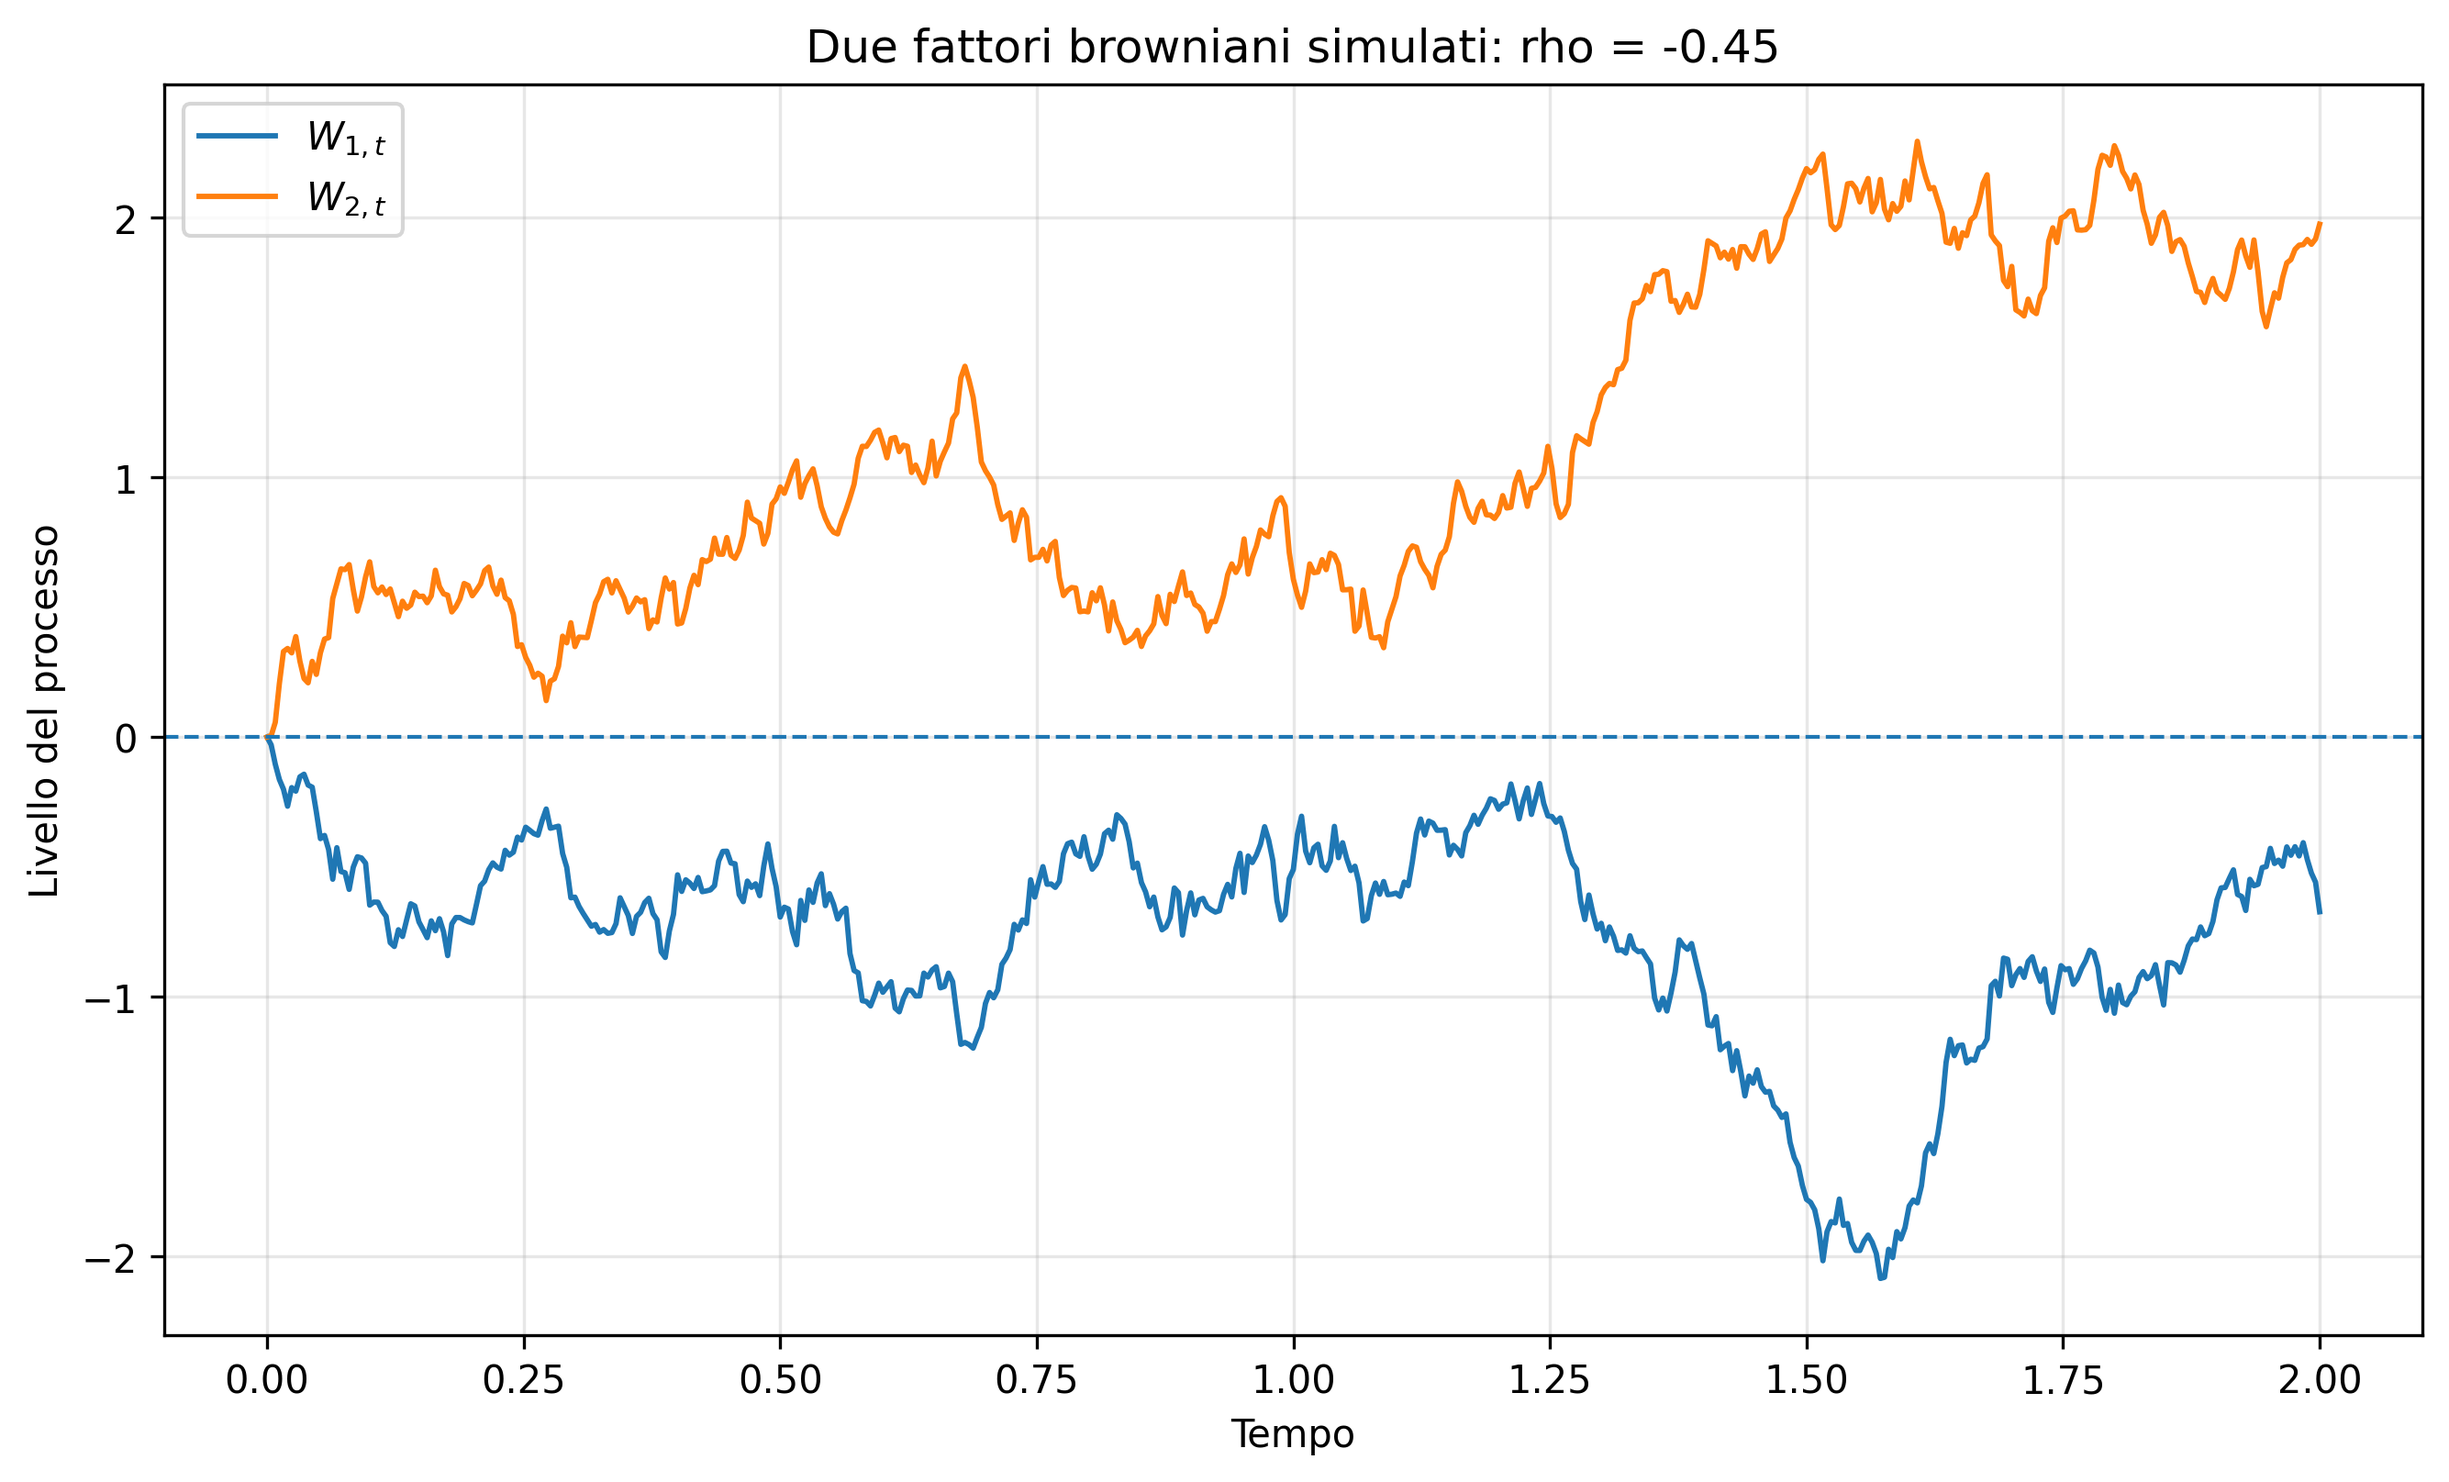
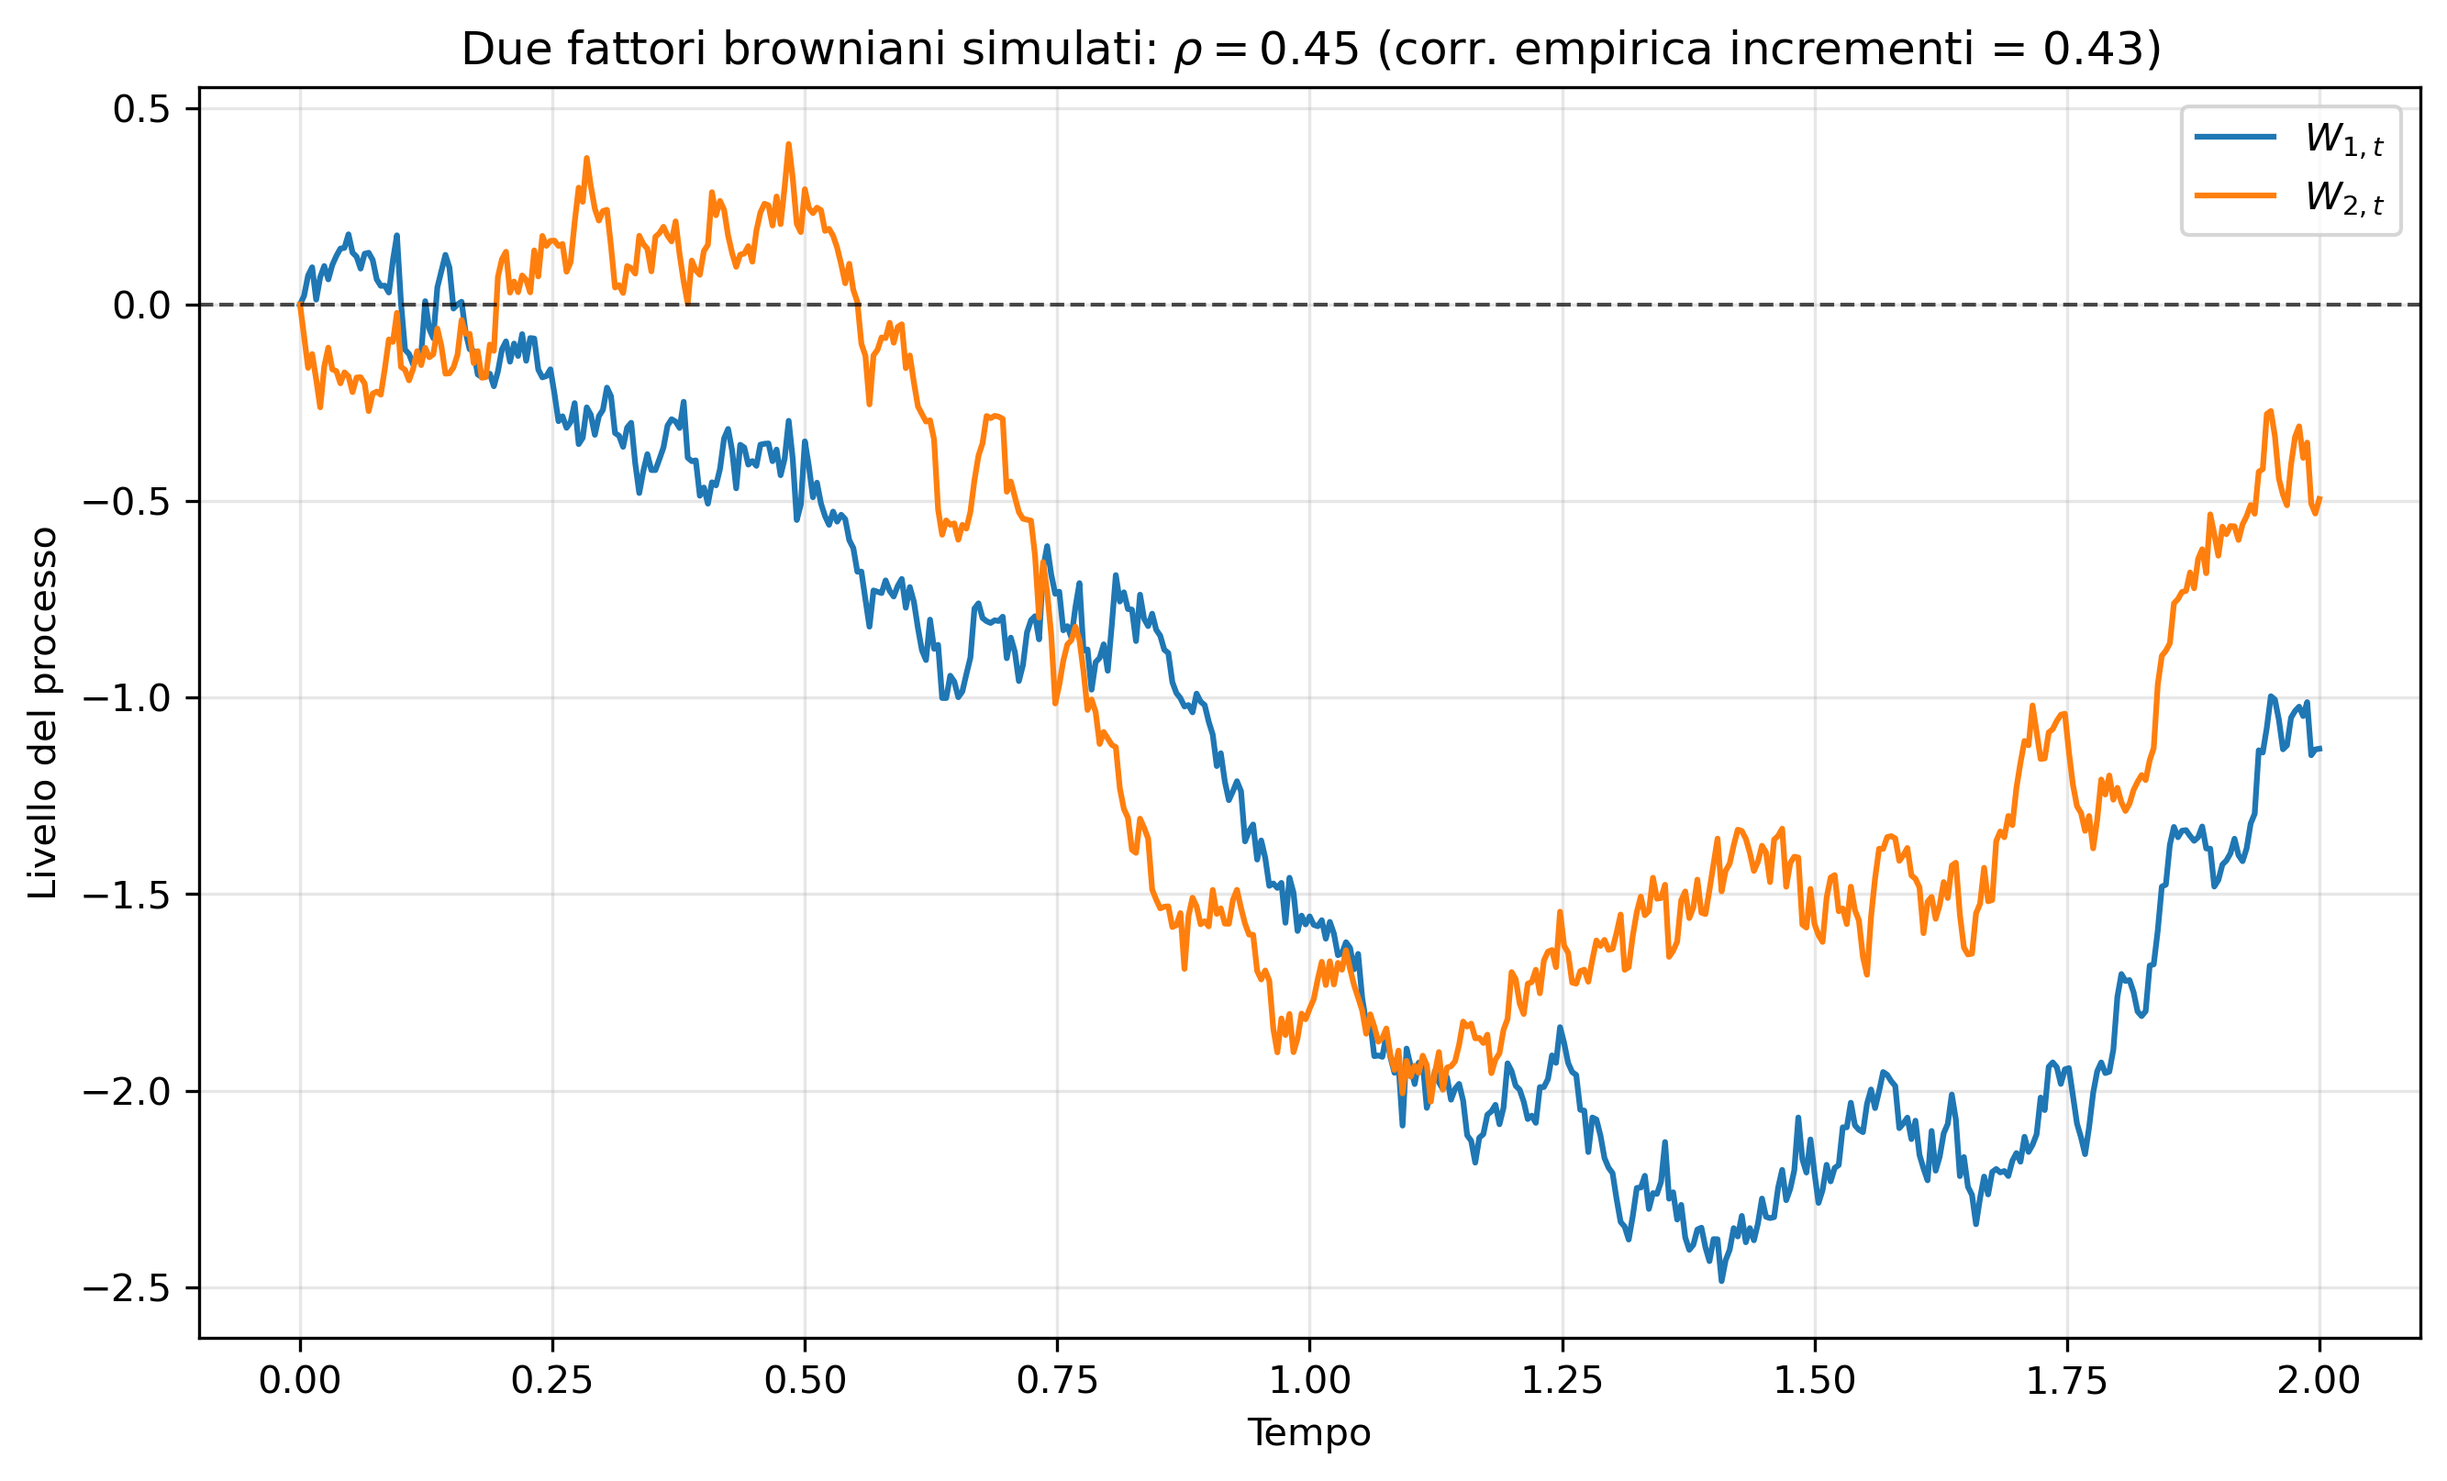
Lez06_Figure traiettorie Browniane correl 0 e 0.45

diff --git a/04_Codice/Lez06/Cap06_correlazione_traiettorie.py b/04_Codice/Lez06/Cap06_correlazione_traiettorie.py
@@ -1,0 +1,158 @@
+import os
+
+import matplotlib.pyplot as plt
+import numpy as np
+
+
+# ============================================================
+# PARAMETRI DA MODIFICARE
+# ============================================================
+
+CORRELATION_PARAMETERS = {
+    "T": 2.0,
+    "n_steps": 500,
+    "seed_1": 1,
+    "seed_2": 127,
+    "rho_values": [0.0, 0.45],
+}
+
+
+OUTPUT_FILES = {
+    0.0: "./graphics/Cap06_correlazione_traiettorie_rho0.png",
+    0.45: "./graphics/Cap06_correlazione_traiettorie_rho_m045.png",
+}
+
+
+# ============================================================
+# SIMULAZIONE DI DUE BROWNIANI CORRELATI
+# ============================================================
+
+
+def generate_base_shocks(
+    n_steps: int,
+    seed_1: int,
+    seed_2: int,
+) -> tuple[np.ndarray, np.ndarray]:
+    """Generate two independent standard-normal shock sequences."""
+    rng_1 = np.random.default_rng(seed_1)
+    rng_2 = np.random.default_rng(seed_2)
+    z1 = rng_1.standard_normal(n_steps)
+    z2 = rng_2.standard_normal(n_steps)
+    return z1, z2
+
+
+def correlate_shocks(
+    z1: np.ndarray,
+    z2: np.ndarray,
+    rho: float,
+) -> tuple[np.ndarray, np.ndarray]:
+    """
+    Build shocks with target instantaneous correlation rho.
+
+    In the two-dimensional case:
+
+        eps_1 = z_1
+        eps_2 = rho z_1 + sqrt(1-rho^2) z_2
+    """
+    if not -1.0 <= rho <= 1.0:
+        raise ValueError("rho must be between -1 and 1.")
+
+    eps1 = z1
+    eps2 = rho * z1 + np.sqrt(1.0 - rho**2) * z2
+    return eps1, eps2
+
+
+def simulate_correlated_brownian_paths(
+    T: float,
+    n_steps: int,
+    seed_1: int,
+    seed_2: int,
+    rho: float,
+) -> tuple[np.ndarray, np.ndarray, np.ndarray, float]:
+    """Simulate two Brownian paths driven by correlated increments."""
+    z1, z2 = generate_base_shocks(
+        n_steps=n_steps,
+        seed_1=seed_1,
+        seed_2=seed_2,
+    )
+    eps1, eps2 = correlate_shocks(z1=z1, z2=z2, rho=rho)
+
+    dt = T / n_steps
+    sqrt_dt = np.sqrt(dt)
+
+    t_grid = np.linspace(0.0, T, n_steps + 1)
+    w1 = np.concatenate(([0.0], np.cumsum(sqrt_dt * eps1)))
+    w2 = np.concatenate(([0.0], np.cumsum(sqrt_dt * eps2)))
+
+    empirical_corr = float(np.corrcoef(eps1, eps2)[0, 1])
+    return t_grid, w1, w2, empirical_corr
+
+
+# ============================================================
+# COSTRUZIONE E SALVATAGGIO DEL GRAFICO
+# ============================================================
+
+
+def plot_correlated_paths(
+    output_path: str,
+    T: float,
+    n_steps: int,
+    seed_1: int,
+    seed_2: int,
+    rho: float,
+) -> float:
+    """Build and save the figure for one target correlation."""
+    t_grid, w1, w2, empirical_corr = simulate_correlated_brownian_paths(
+        T=T,
+        n_steps=n_steps,
+        seed_1=seed_1,
+        seed_2=seed_2,
+        rho=rho,
+    )
+
+    fig, ax = plt.subplots(figsize=(9, 5.5))
+
+    ax.plot(t_grid, w1, linewidth=1.5, label=r"$W_{1,t}$")
+    ax.plot(t_grid, w2, linewidth=1.5, label=r"$W_{2,t}$")
+    ax.axhline(0.0, color="black", linestyle="--", linewidth=1.0, alpha=0.7)
+
+    ax.set_xlabel("Tempo")
+    ax.set_ylabel("Livello del processo")
+    ax.set_title(
+        rf"Due fattori browniani simulati: $\rho={rho:.2f}$ "
+        rf"(corr. empirica incrementi = {empirical_corr:.2f})"
+    )
+    ax.legend()
+    ax.grid(True, alpha=0.3)
+
+    plt.tight_layout()
+
+    output_dir = os.path.dirname(output_path)
+    if output_dir:
+        os.makedirs(output_dir, exist_ok=True)
+    plt.savefig(output_path, dpi=300, bbox_inches="tight")
+    plt.close(fig)
+
+    return empirical_corr
+
+
+# ============================================================
+# ESECUZIONE DELLO SCRIPT
+# ============================================================
+
+
+if __name__ == "__main__":
+    for rho_value in CORRELATION_PARAMETERS["rho_values"]:
+        empirical = plot_correlated_paths(
+            output_path=OUTPUT_FILES[rho_value],
+            T=CORRELATION_PARAMETERS["T"],
+            n_steps=CORRELATION_PARAMETERS["n_steps"],
+            seed_1=CORRELATION_PARAMETERS["seed_1"],
+            seed_2=CORRELATION_PARAMETERS["seed_2"],
+            rho=rho_value,
+        )
+        print(
+            "Figura salvata in: "
+            f"{OUTPUT_FILES[rho_value]} | rho target={rho_value:.2f} "
+            f"| corr empirica incrementi={empirical:.4f}"
+        )
